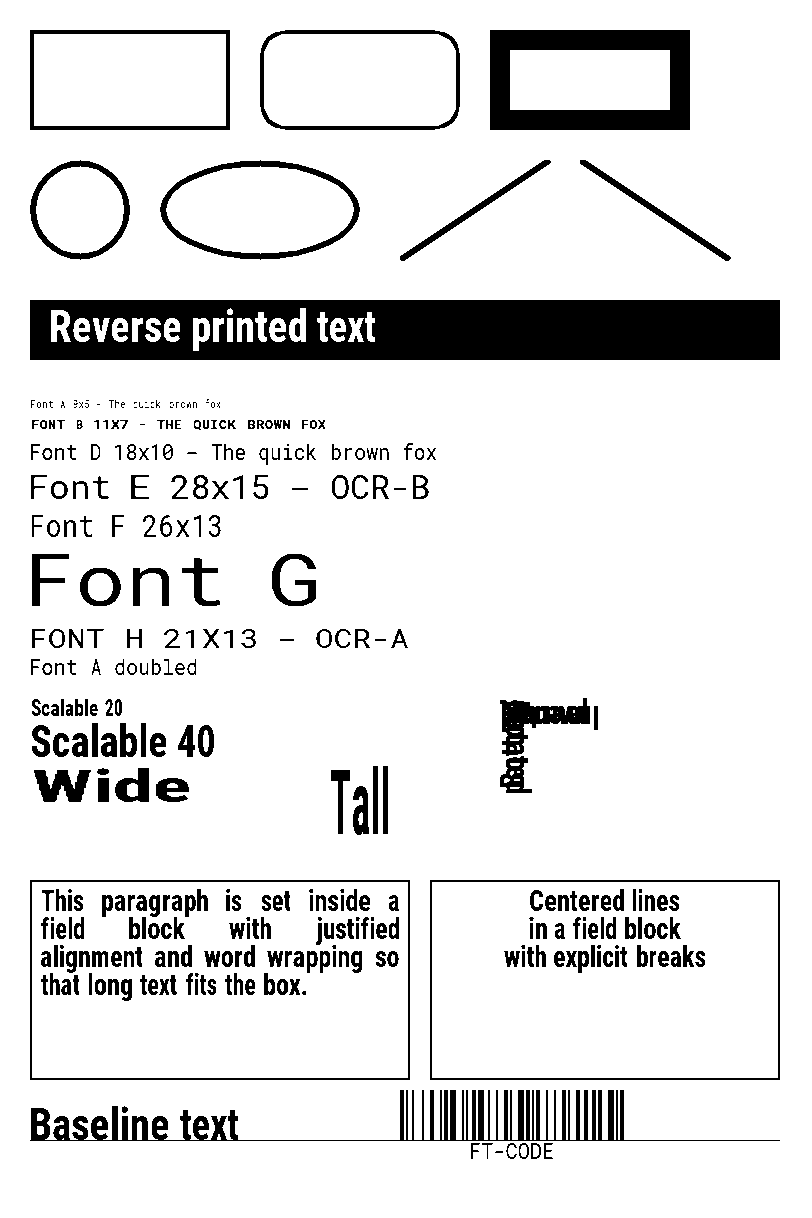
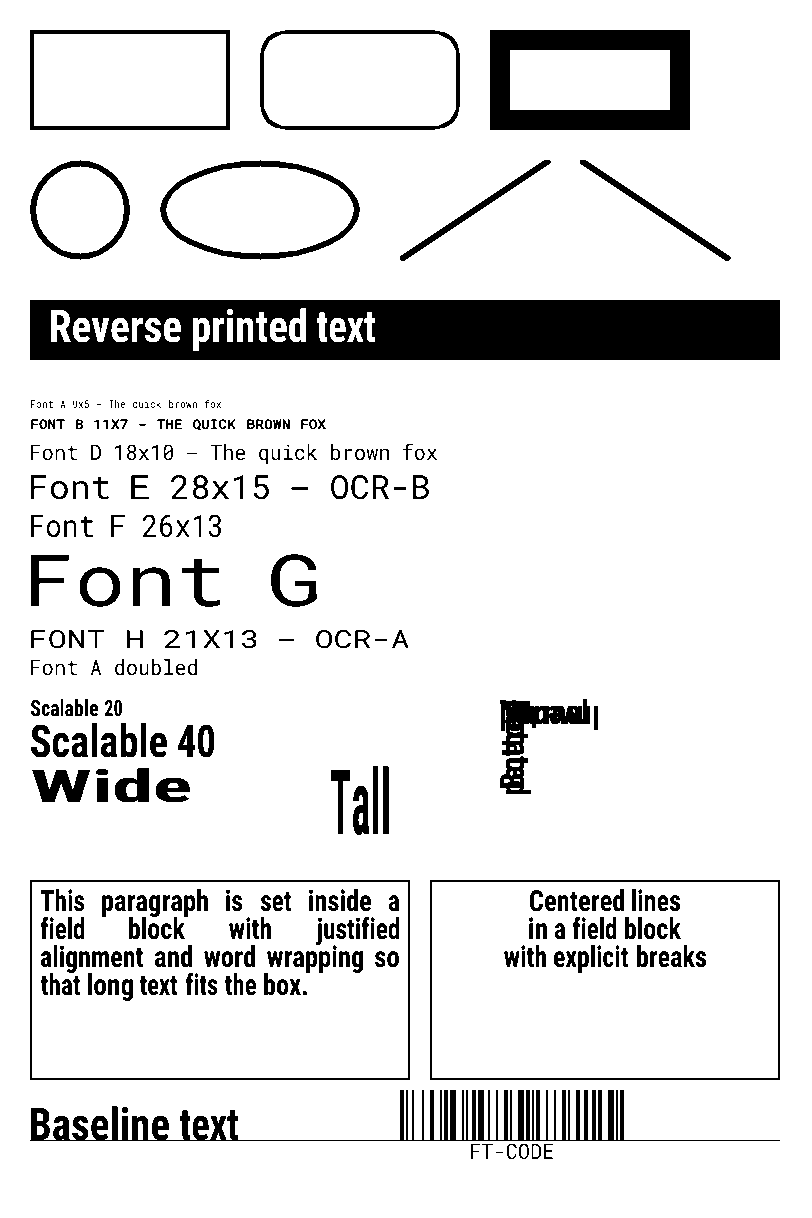
fix(png): draw text at four times the size before the threshold
The PNG drew each word at the final size and then squeezed it
sideways, so the threshold worked on glyphs that were already rounded
to whole pixels. Stems and curves came out uneven. Each word is now
drawn at four times the size and reduced in one step, so the threshold
works on exact coverage. Text keeps its position and weight.

diff --git a/src/Renderer/PngRenderer.php b/src/Renderer/PngRenderer.php
@@ -38,6 +38,9 @@ class PngRenderer {
 	/** GD sizes TrueType text in points at 96 dpi, so one pixel of em is 0.75 points. */
 	private const float POINTS_PER_PIXEL = 0.75;
 
+	/** Factor by which text is drawn larger before it is reduced to one-bit pixels. */
+	private const int SUPERSAMPLE = 4;
+
 	/** @var array<string, float> cap height as a fraction of the em, by font file */
 	private static array $capHeights = [];
 
@@ -202,10 +205,15 @@ class PngRenderer {
 		}
 	}
 
+	/**
+	 * Draw a word at SUPERSAMPLE times its size, then reduce it to its place
+	 * in one step, so the threshold works on exact coverage and every stem
+	 * keeps the same width.
+	 */
 	private function word(\GdImage $layer, Matrix $matrix, Orientation $orientation, ResolvedFont $font, string $winAnsi, float $x, float $baseline): void {
 		$file = $this->fontFile($font);
 		$utf8 = mb_convert_encoding($winAnsi, "UTF-8", "Windows-1252");
-		$em = $font->ascent * $this->scale / $this->capHeight($file);
+		$em = $font->ascent * $this->scale * self::SUPERSAMPLE / $this->capHeight($file);
 		$points = $em * self::POINTS_PER_PIXEL;
 		$box = imagettfbbox($points, 0, $file, $utf8);
 
@@ -214,12 +222,12 @@ class PngRenderer {
 		}
 
 		$left = (int) $box[0];
-		$naturalWidth = max(1, (int) $box[2] - $left);
-		$ascent = max(1, (int) -$box[7]);
-		$descent = max(0, (int) $box[1]);
-		$rows = $ascent + $descent + 2;
+		$naturalWidth = max(1, (int) $box[2] - $left) + 2 * self::SUPERSAMPLE;
+		$ascentRows = max(1, (int) ceil(-$box[7] / self::SUPERSAMPLE)) + 1;
+		$descentRows = max(0, (int) ceil($box[1] / self::SUPERSAMPLE)) + 1;
+		$rows = $ascentRows + $descentRows;
 		$targetWidth = max(1, (int) round($font->width($winAnsi) * $this->scale));
-		$glyphs = imagecreatetruecolor($naturalWidth + 2, $rows);
+		$glyphs = imagecreatetruecolor($naturalWidth, $rows * self::SUPERSAMPLE);
 		$squeezed = imagecreatetruecolor($targetWidth, $rows);
 
 		if ($glyphs === false || $squeezed === false) {
@@ -229,10 +237,10 @@ class PngRenderer {
 		$white = (int) imagecolorallocate($glyphs, 255, 255, 255);
 		$black = (int) imagecolorallocate($glyphs, 0, 0, 0);
 		imagefill($glyphs, 0, 0, $white);
-		imagettftext($glyphs, $points, 0, 1 - $left, $ascent + 1, $black, $file, $utf8);
-		imagecopyresampled($squeezed, $glyphs, 0, 0, 0, 0, $targetWidth, $rows, $naturalWidth + 2, $rows);
+		imagettftext($glyphs, $points, 0, self::SUPERSAMPLE - $left, $ascentRows * self::SUPERSAMPLE, $black, $file, $utf8);
+		imagecopyresampled($squeezed, $glyphs, 0, 0, 0, 0, $targetWidth, $rows, $naturalWidth, $rows * self::SUPERSAMPLE);
 
-		$this->place($layer, $this->threshold($squeezed), $matrix, $orientation, $x, $baseline - ($ascent + 1) / $this->scale);
+		$this->place($layer, $this->threshold($squeezed), $matrix, $orientation, $x, $baseline - $ascentRows / $this->scale);
 	}
 
 	/**
